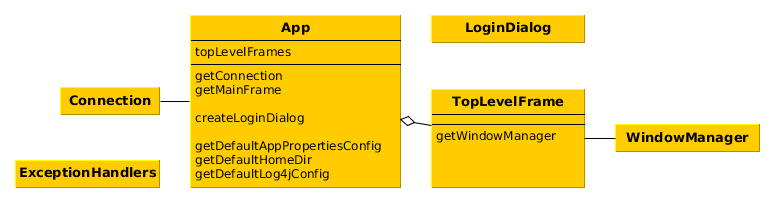
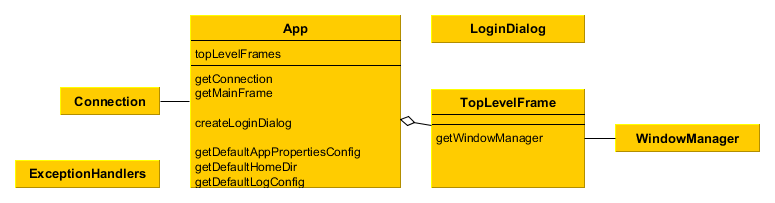
Changes for platform 6.0 (logging). #PLD-110

diff --git a/content/manual/source/development/logging_1.java b/content/manual/source/development/logging_1.java
@@ -1,0 +1,12 @@
+import org.slf4j.Logger;
+import org.slf4j.LoggerFactory;
+
+public class Foo {
+    // create logger
+    private Logger log = LoggerFactory.getLogger(Foo.class);
+
+    private void someMethod() {
+        // output message with DEBUG level
+        log.debug("someMethod invoked");
+    }
+}

diff --git a/content/manual/source/gui/desktopclient_3.java b/content/manual/source/gui/desktopclient_3.java
@@ -1,4 +1,4 @@
 @Override
-protected String getDefaultLog4jConfig() {
-    return "sales-log4j.xml";
+protected String getDefaultLogConfig() {
+    return "sales-logback.xml";
 }

diff --git a/content/manual/source/development/logging_2.java b/content/manual/source/development/logging_2.java
@@ -1,0 +1,6 @@
+public class SampleApp extends App {
+    ...
+    @Override
+    protected String getDefaultLogConfig() {
+        return "sample-logback.xml";
+    }
